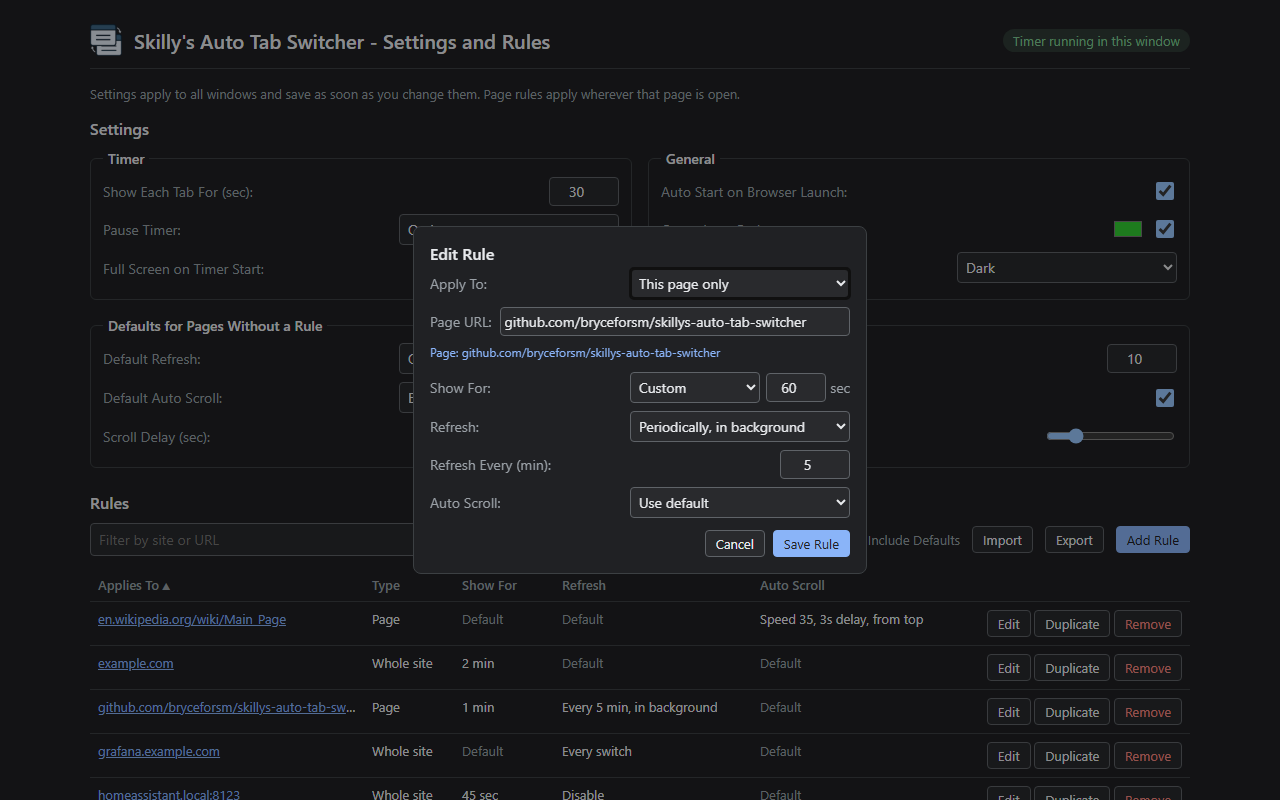
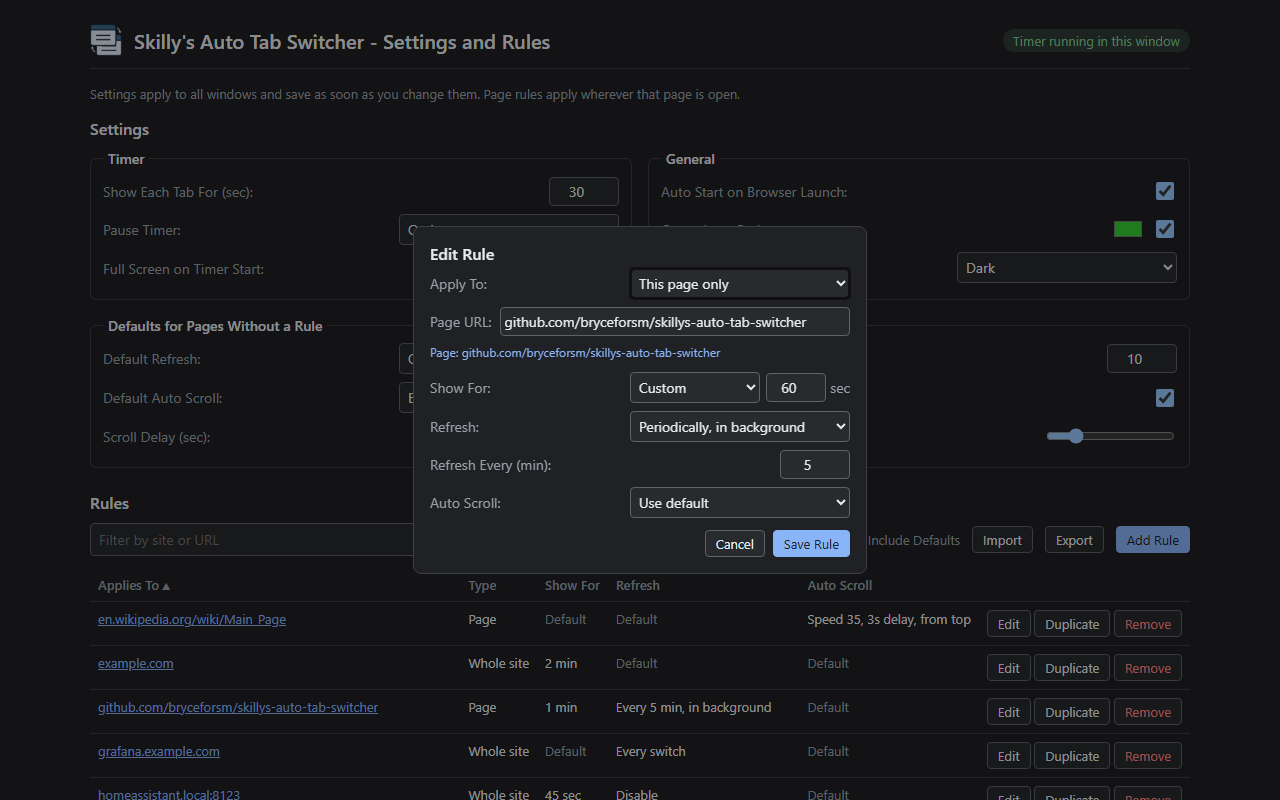
Update mock.js to include version in runtime manifest; enhance rules.html table layout for better readability

diff --git a/TabSwitcherExtension/rules.html b/TabSwitcherExtension/rules.html
@@ -149,25 +149,23 @@
             width: 100%;
             border-collapse: collapse;
             font-size: 13px;
-            table-layout: fixed;
         }
         th, td {
             text-align: left;
             padding: 8px;
             border-bottom: 1px solid #e8eaed;
             vertical-align: top;
+            white-space: nowrap;
         }
         th {
             font-weight: 500;
             color: #5f6368;
+            white-space: nowrap;
         }
-        col.target { width: auto; }
-        col.type { width: 90px; }
-        col.display { width: 100px; }
-        col.refresh { width: 18%; }
-        col.scroll { width: 18%; }
-        col.actions { width: 240px; }
         td.target {
+            /* Fills the leftover width, other columns shrink to their content. */
+            width: 100%;
+            max-width: 0;
             /* Long URLs are cut off with an ellipsis. Hovering shows the full address. */
             white-space: nowrap;
             overflow: hidden;
@@ -494,9 +492,6 @@
             <button type="button" id="addRule" class="primary">Add Rule</button>
         </div>
         <table id="table">
-            <colgroup>
-                <col class="target"><col class="type"><col class="display"><col class="refresh"><col class="scroll"><col class="actions">
-            </colgroup>
             <thead>
                 <tr>
                     <th><button type="button" class="sort" data-sort="target">Applies To</button></th>

diff --git a/.github/skills/store-screenshots/assets/mock.js b/.github/skills/store-screenshots/assets/mock.js
@@ -37,7 +37,7 @@
         },
         windows: { getCurrent: async () => ({ id: 1 }) },
         tabs: { query: async () => [{ id: 1, url: 'https://github.com/bryceforsm/skillys-auto-tab-switcher' }], create() {} },
-        runtime: { sendMessage: async () => ({ running: !outOfBox }), connect: () => ({ postMessage() {} }), openOptionsPage() {} }
+        runtime: { getManifest: () => ({ version: '2.1.1' }), sendMessage: async () => ({ running: !outOfBox }), connect: () => ({ postMessage() {} }), openOptionsPage() {} }
     };
 
     document.addEventListener('DOMContentLoaded', () => {
